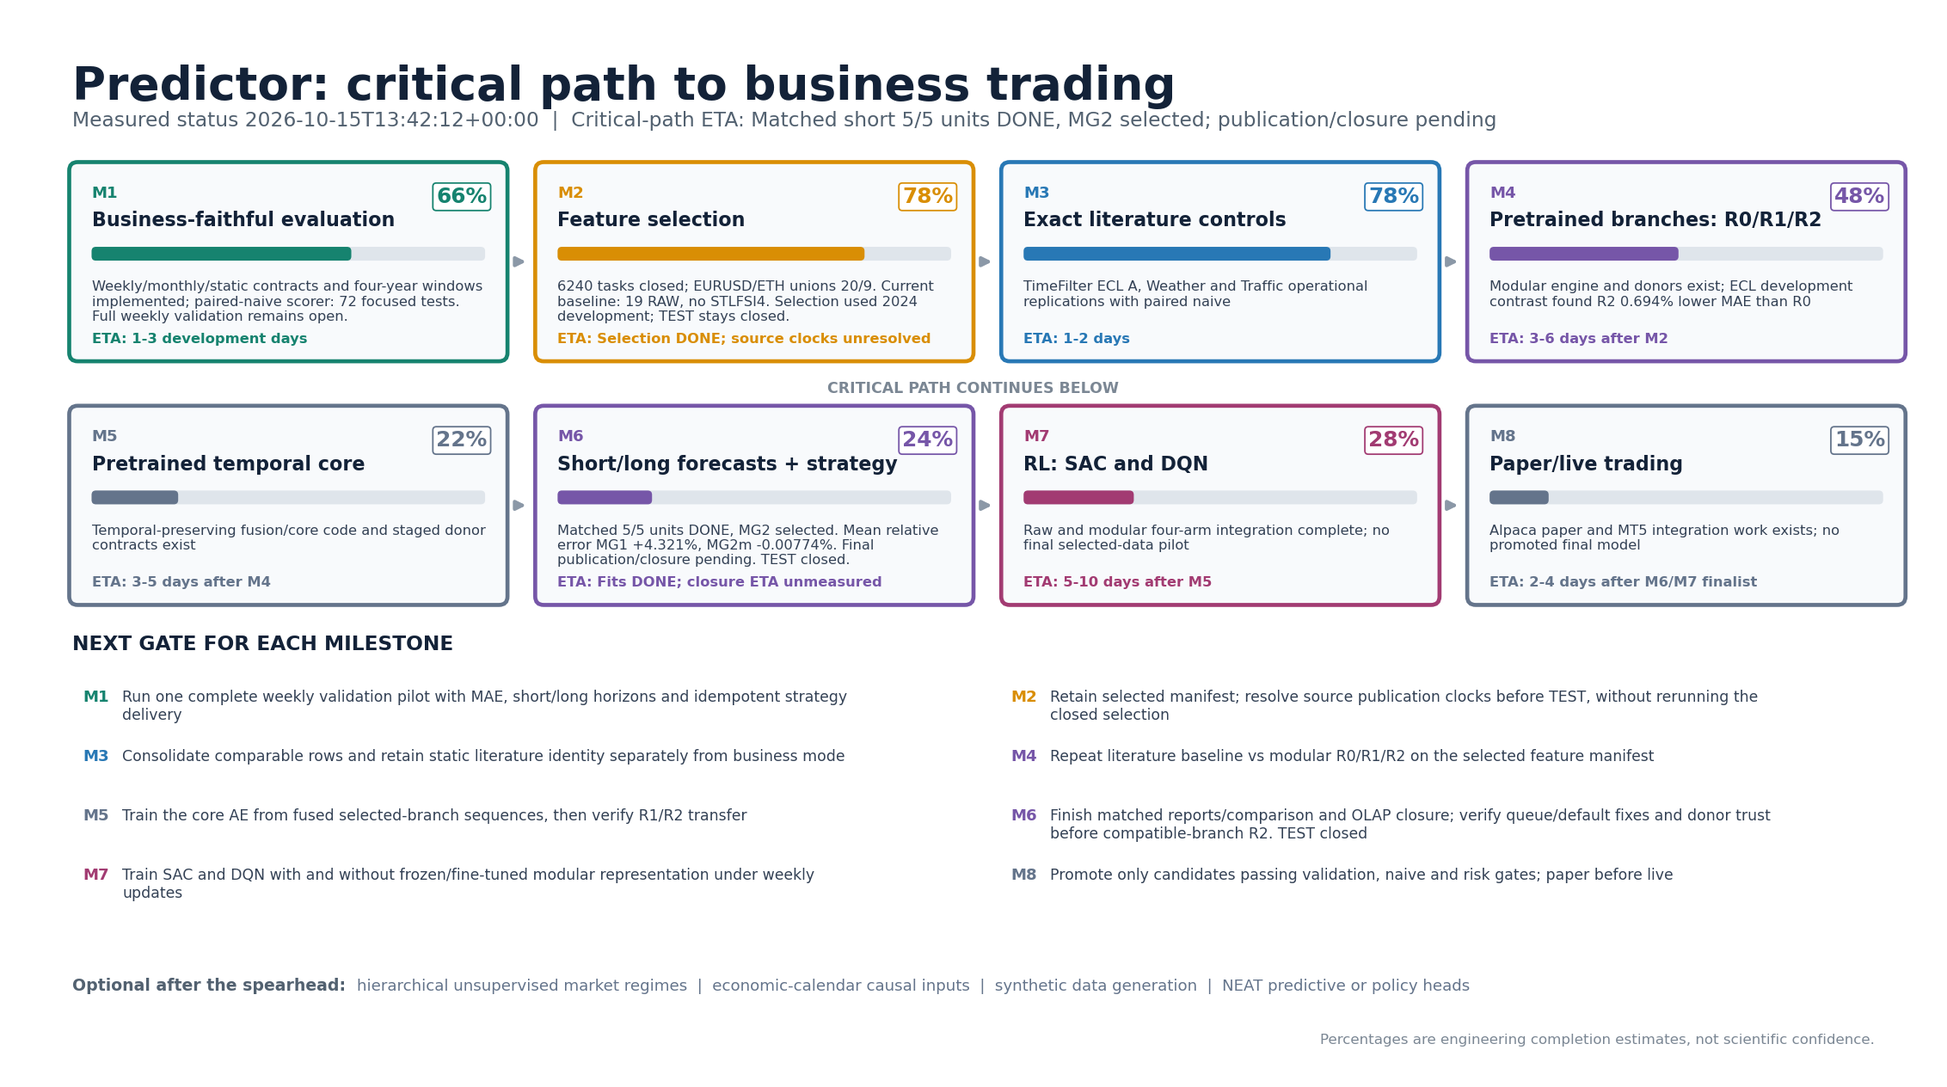
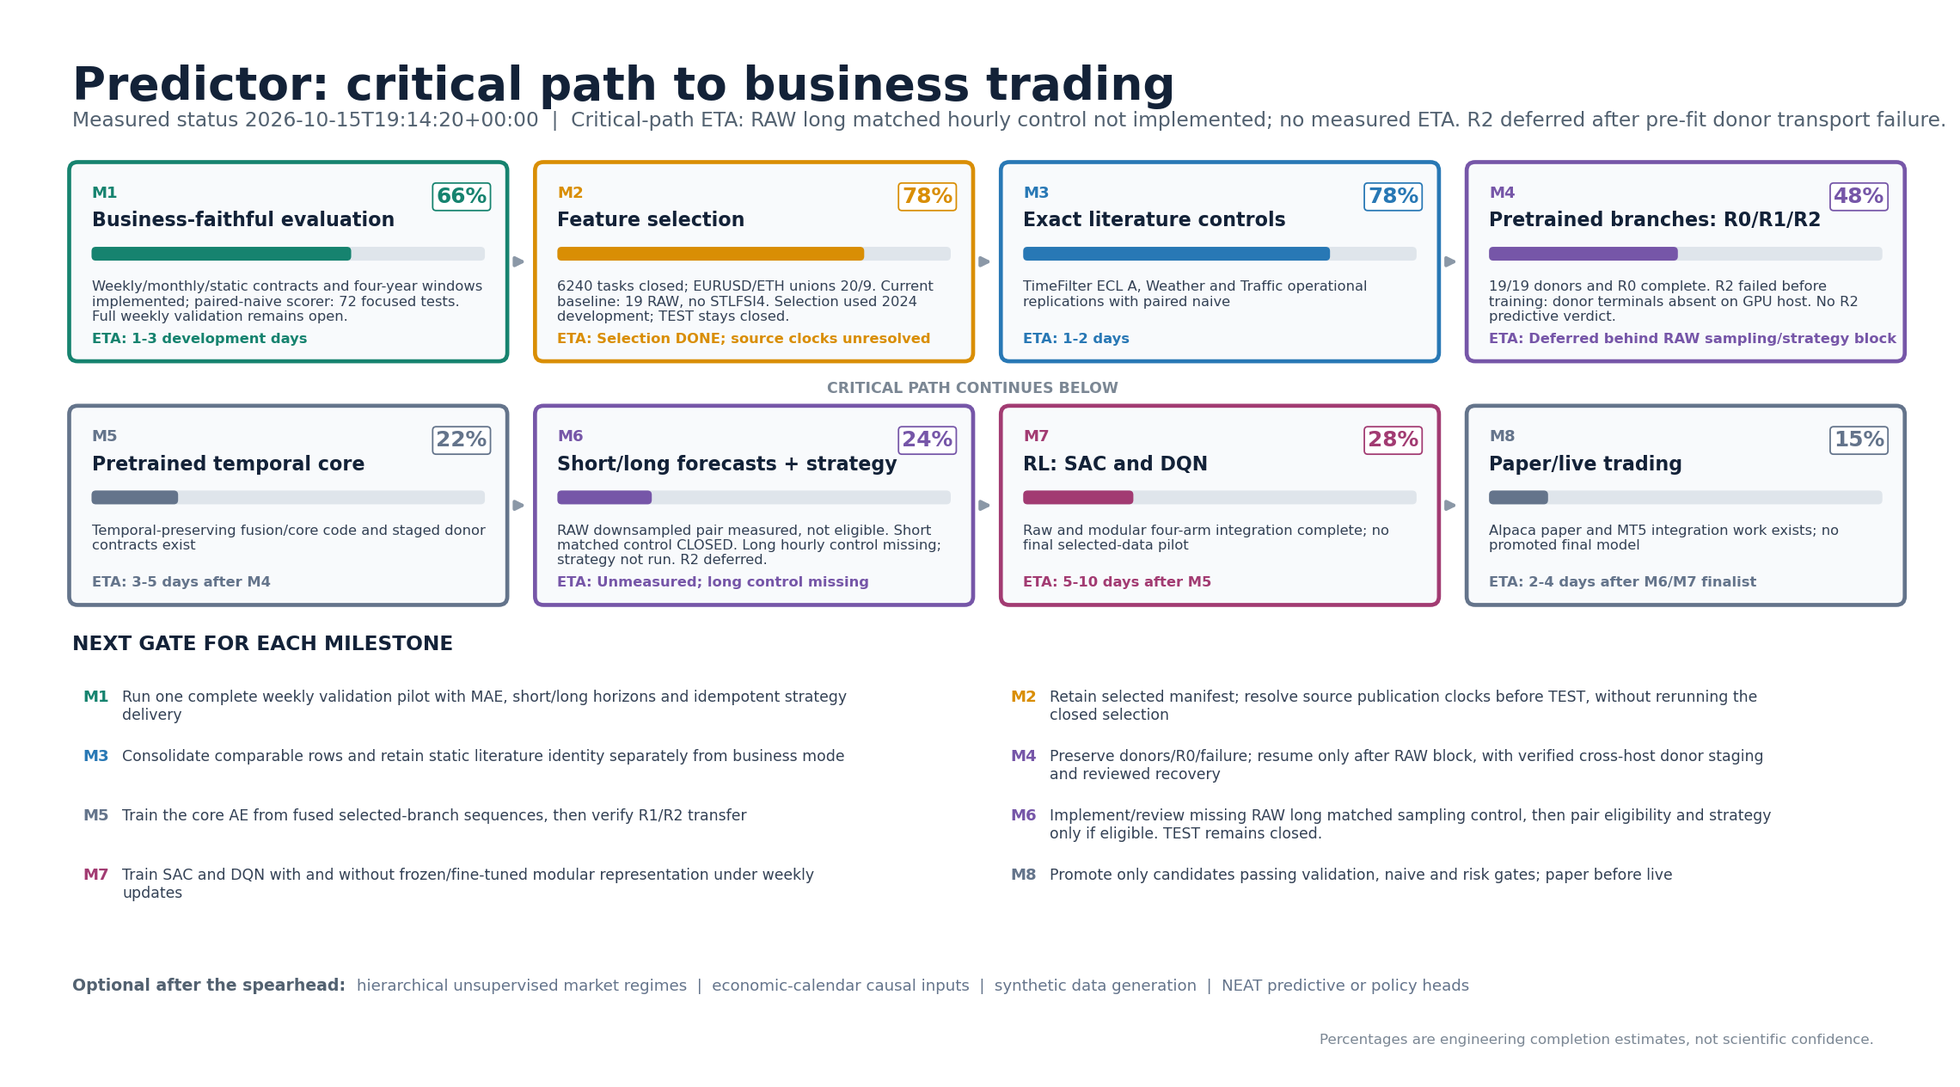
Restore RAW sampling priority and audit R2 prefit transport failure

diff --git a/docs/i6n/direct_multi_output_static/matched_short/MUSASHI_R2_AUDIT_20261015.md b/docs/i6n/direct_multi_output_static/matched_short/MUSASHI_R2_AUDIT_20261015.md
@@ -1,0 +1,108 @@
+# Musashi: R0/R2 launch audit and dispatch correction
+
+Campaign `i6dmo-9d3c198c77b1`, live root ending `-b`, immutable runtime
+`c34b1e48`. Published integration `813ef019` was checked against origin.
+The alternate root without `-b` has no DEPLOY.json and is retained, not deleted.
+No fit, donor, objective, loss, scientific seal or model weight was edited.
+
+## Actual state, 2026-10-15 19:08 UTC
+
+Superseding observation at 19:14 UTC: all 19 donors, R0.fit/R0.report and
+the diagnostic probe completed. R2.fit FAILED with R2_DONOR_TERMINAL_DIGEST
+before training (training=null in its receipt); R2.report is blocked. All 19
+referenced terminals match their hashes on the coordinator; zero of 19 exist
+at the referenced paths on the preferred worker. SshSystemdExecutor.start
+copies the attempt folder but not the external donor files. Thus the import
+guard rejected missing transport input correctly. This is not a measured
+negative R2 predictor. The comparison cannot establish an R0/R2 winner.
+
+Owner correction following this finding: R2 is deferred behind the unfinished
+RAW short/long sampling/strategy block. Preserve donors, R0 and failed attempt.
+Do not hot-retry, bypass verification or repeat pretraining. The active order
+is [RAW_PRIORITY_20261015.md](../RAW_PRIORITY_20261015.md), executed by Musashi.
+The following 19:08 snapshot is historical, not a current RUNNING claim.
+
+The finite plan has 25 units: 19 per-feature pretrainings, two predictor fits,
+two reports, one diagnostic probe and one comparison. All 19 pretrainings
+completed; R0 was RUNNING on the required preferred class, the probe was
+RUNNING, and R2 awaited the same class. No TEST unit is enumerable. Seed
+6102026 and the ruled-contract file digest match the effective configuration.
+The two predictor fits are pinned to rtx5090; other GPUs may train independent
+donors but cannot substitute for that controlled predictor-fit class.
+
+The previously reported four-minute ETA described model-training seconds,
+not end-to-end completion. At 19:02 UTC only 8/19 donors had completed after
+roughly 20 minutes: workers waited 120 s after short units, tick waited 300 s
+and publication 600 s. Typical recorded donor fit time was 5-12 s, with
+additional launch/supervision overhead. Do not omit this scheduling cost.
+
+## Operational correction actually applied
+
+Campaign-scoped timer drop-ins now specify GPU worker idle interval 5 s,
+coordinator worker 10 s, tick 10 s and publisher 60 s, with 1 s accuracy.
+Boot activation is retained at 30 s. A systemd user daemon-reload applied the
+settings; no running service/child was stopped, restarted or manually launched.
+The runtime pin, sealed deployment JSON, per-job caps/reserves and sole-heavy
+GPU slot on the preferred host did not change. The auxiliary GPU was not
+enabled. Existing locks, claims, admission and same-GPU-class rules still apply.
+
+After the correction, preferred and secondary simultaneously executed
+different donor units; progress advanced from 8 to 19 completed donors. R0
+then started automatically. Effective timer properties were read back. This
+is an operational cadence amendment, not a new scientific treatment or a
+claim that every GPU must be busy during CPU-only dependencies.
+
+## Scientific qualifications and residuals
+
+1. **Pretraining early stopping differs from the owner's global preference.**
+   The sealed registered O1 objective stops on purged INNER reconstruction
+   loss only, not the owner's requested mean of end-of-epoch FIT and INNER.
+   Predictor fine-tuning uses the declared mean in both R0 and R2. Keep the
+   current predeclared campaign unchanged and report this deviation; do not
+   describe it as an implementation of mean-based stopping at every level.
+   The result measures this specific pretraining-and-selection pipeline.
+   Implement the owner's mean monitor as a versioned future objective, not a
+   silent change to O1 1.0.0 or a mid-campaign checkpoint-selection rule.
+2. **INNER is consulted in two stages, not numerically weighted twice.**
+   R2 pretraining selection uses unlabeled input windows, and fine-tuning
+   subsequently uses the inner predictive loss. This does not by itself
+   demonstrate target leakage or invalidate a declared development comparison.
+   Nor does it establish an independent holdout. Feature selection already
+   used DEVELOPMENT 2024; TEST remains closed under the existing source gates.
+3. **Do not claim denoising from reconstruction.** O1 reconstructs the input
+   through a small branch and decoder; its representation can encode identity.
+   Reconstruction is diagnostic. The downstream per-horizon R0/R2 errors on
+   identical common masks and their own naives determine predictive benefit.
+4. **Automatic donor custody is not live warehouse authentication.** The R1
+   verifier checks the custody-protected outbox readback record and both mirrors.
+   Its live warehouse re-query is optional, as R1_DONOR_TRUST.md explicitly says.
+   Satoshi's summary must distinguish that from mandatory live readback on
+   every adoption. The two-host rewrite limit remains, without signature claims.
+   This campaign has no external prior roots and accepts its own authenticated
+   pretraining terminals. Do not infer cryptographic authenticity from hashes.
+5. **Pretraining peak is not measured.** run_pretrain explicitly writes
+   cgroup_peak_bytes=None. The conservative provisional cap is retained; do
+   not lower it from a different engineering run's 1.7-GB observation. Add
+   whole-scope peak capture and publication in the next release, including
+   failure paths. A sampled or TF allocator peak is not the full cgroup peak.
+6. **Keep ETA scopes separate.** Remaining fit seconds omit launch, idle and
+   host serialization. In particular, completed pretraining rows with
+   score_seconds=0 cannot measure the cost of a future probe/predictor report.
+   Report UNMEASURED rather than zero for an unmeasured phase.
+
+The old 2.18-declared/2.21-observed baseline remains qualified, not resealed.
+The current sealed runtime is TF 2.21.0 / Keras 3.13.2. The undeployed earlier
+root and original producer record are evidence; neither requires deletion to
+continue. No restart or credential action is established as necessary here.
+
+## Bounded independent CPU checks
+
+At published source 813ef019, the donor-trust suite plus the ruled-objective,
+strict-decision, R0-versus-R2 identity and atomic-import rollback checks passed:
+33 passed, two protobuf deprecation warnings, 123.48 s, under a 2-GiB/180-s
+governed cap with GPUs hidden. These checks are not a rerun of all 808 tests
+or a new scientific fit. Exact command:
+
+```bash
+crispdm-run -m 2G -t 180s -n r2-audit-contract-trust -- env CUDA_VISIBLE_DEVICES= PYTHONPATH=. python -m pytest -q tests/i6dmo/test_r1_donor_trust.py tests/i6dmo/test_r2_design.py::test_the_committed_ruled_contract_carries_the_lead_ruling_and_is_executable tests/i6dmo/test_r2_design.py::test_decision_integrity_is_strict_by_default tests/i6dmo/test_r2_design.py::test_two_plain_r0_fits_are_never_r0_vs_r2_even_for_engineering tests/i6dmo/test_r2_design.py::test_import_rolls_back_every_branch_when_setting_weights_fails
+```

diff --git a/docs/i6n/direct_multi_output_static/RAW_PRIORITY_20261015.md b/docs/i6n/direct_multi_output_static/RAW_PRIORITY_20261015.md
@@ -1,0 +1,80 @@
+# RAW direct multi-output: current execution priority
+
+Owner correction, 2026-10-15. Executor: Musashi, not Satoshi. This order
+supersedes the R2-before-long sequence in NEXT_CONTRASTS_PLAN_20261015.md.
+It does not rewrite scientific identities or launch a fit by itself.
+
+## 1. Measured state and missing evidence
+
+| Work | Actual evidence | Disposition |
+|---|---|---|
+| RAW exact-DS2 short | Six heads worse than their own naive | Complete, negative |
+| RAW market-time MG2/MG12 pair | Both families measured; no eligible long head | Complete, PAIR_NOT_ELIGIBLE; strategy correctly not run |
+| Matched RAW short MG1/MG2m | Common FIT/INNER/DEVELOPMENT, MG2_SELECTED | Complete; MG2m beats its naive only at 4/6/12 h |
+| Matched RAW long downsampled/hourly | No matched hourly long arm retained | Not complete; immediate design/implementation gap |
+| Complete eligible RAW pair in strategy | No eligible pair | Not executed, not evidence of trading failure |
+| Branch R2 | 19/19 donors, R0 and diagnostic probe complete; R2 import failed before fitting | Deferred; not a prerequisite for RAW |
+
+The historical MG2/MG12 receipts declared TF 2.18 but recorded TF 2.21.
+Retain them with their qualification; they are not a runtime-matched control
+for a new experiment. A new matched question is not a seed repeat of an old
+fit. Reuse only when every required identity and population agrees.
+
+## 2. Finite progression
+
+1. Retain completed downsampled short/long and matched short evidence. Do not
+   repeat these fits merely to populate a GPU.
+2. Define, implement and review ONLY the missing RAW long hourly-versus-
+   downsampled control. Both arms must have the same physical context,
+   horizons, common FIT/INNER/DEVELOPMENT masks, FIT-only scaler, optimizer,
+   runtime, seed and stopping rule. Their readout parameter-count difference
+   must be disclosed, not attributed solely to sampling. Preserve the current
+   long-family physical horizons 18/24/36/48/60/72 h; do not resurrect the
+   superseded 120-hour heads silently.
+3. Execute the two sealed RAW arms and report each full DEVELOPMENT-2024
+   horizon against naive for that horizon on exactly its own scored rows.
+   Negative results still close the experiment. Never select missing heads,
+   fill them with price(t), average away ineligibility or read TEST to tune.
+4. Evaluate the complete short/long pair against the frozen eligibility
+   policy. If eligible, run the prediction-based strategy on DEVELOPMENT,
+   recording model/config/feature hashes, initial capital 10000, trade count,
+   costs, profit, drawdown and Sharpe. If not, close PAIR_NOT_ELIGIBLE with
+   explicit per-head reasons; do not force a misleading trading run.
+5. TEST remains closed until the full procedure and source-availability gates
+   pass. TEST is not a hyperparameter-selection split. Do not substitute a
+   DEVELOPMENT backtest for a confirmatory TEST result.
+6. Only after the RAW block closes: consider separately declared capacity,
+   cadence and branch-pretraining contrasts. R2/core AE/DOIN/RL/NEAT cannot
+   become implicit dependencies of the missing RAW result.
+
+## 3. Non-negotiable experiment and automation rules
+
+Use 19 retained RAW features, no target denoising, no input reconstruction,
+no smoothing/interpolation. Include current t in each window; targets are
+exact elapsed t+h and issuance remains hourly. Open-market input sampling
+is not a relabelled elapsed-time target. Retain actual offsets and closure
+flags, per-head business masks, label maturity, forced-flat/reopening/entry
+rules and the same masks for model and naive. The initial cadence is NONE;
+later retraining comparisons are separate experiments, not hot changes.
+
+Relative error is (MAE_h - naive_h)/naive_h; negative is better. Stopping uses
+the declared mean of end-of-epoch FIT/INNER at identical weights, patience 10,
+min_delta 1e-8, best restoration. One seed, no unnecessary repetitions.
+
+Reuse the existing finite campaign queue, admission, workers, terminal
+verification, outbox, warehouse readback, physical mirrors and automatic
+close. Missing long-family factory support must be implemented and tested;
+never monkeypatch short-family globals or disguise a long run as a short arm.
+Status must name this gap until it exists; no RUNNING label or fabricated ETA.
+Prefer the 5090; one heavy job on its host, no concurrent 5070 Ti. Independent
+work may use the 4090 after fresh admission. Reserve coordinator memory.
+
+Do not erase or retry the failed R2 import in place. Its code was actually
+executed and produced a typed failure. Keep the first failure and all donor
+bytes; when R2 is resumed later, repair and test cross-host donor staging,
+verify terminal AND weight hashes before GPU launch, then use an explicitly
+reviewed recovery/adoption path without changing a closed receipt.
+
+All metrics, exclusions, costs and dispositions go through the existing OLAP
+outbox/readback. Code/configs/summaries/hashes belong in Git; large artifacts
+and databases remain on physical storage with authenticated mirrors.

diff --git a/docs/tres_temas_entrevista/program_v3/CURRENT_EXECUTION.md b/docs/tres_temas_entrevista/program_v3/CURRENT_EXECUTION.md
@@ -1,5 +1,39 @@
 # Estado de ejecución vigente
 
+## Actual: prioridad RAW; R2 aplazado, no ejecutandose
+
+Rectificacion del propietario, 2026-10-15: Musashi ejecuta sin nuevas tareas
+para Satoshi. El control corto RAW MG1/MG2m esta cerrado; falta el control
+largo horario emparejado y la evaluacion de una pareja elegible en estrategia.
+Los baselines MG2/MG12 ya medidos no habilitaron trading. No confundir esas
+mediciones con la comparacion RAW completa ni con un resultado de estrategia.
+[Orden vigente](../../i6n/direct_multi_output_static/RAW_PRIORITY_20261015.md).
+
+Lectura real 19:14 UTC: 19/19 donantes, R0 y sonda terminados. R2 fallo antes
+de entrenar con R2_DONOR_TERMINAL_DIGEST: ningun terminal donante estaba en
+el worker, aunque los 19 hashes locales verifican. No hay resultado predictivo
+R2 ni comparacion valida. Se conservan todos los bytes y el fallo; no se
+relanza R2 ni se repite pretraining en este camino critico. TEST cerrado.
+
+## Registro anterior: lanzamiento R0/R2
+
+Auditoria Musashi 2026-10-15 19:08 UTC: campana `i6dmo-9d3c198c77b1`,
+runtime `c34b1e48`, integracion publicada `813ef019`. Los 19 preentrenamientos
+terminaron; R0 y la sonda diagnostica arrancaron automaticamente, y R2 espera
+la misma clase 5090. La 4090 prepara donantes, no sustituye la clase fijada
+para comparar predictores. No hay error predictivo anual nuevo en este snapshot
+ni acceso a TEST.
+
+Se corrigio la cadencia: workers GPU 5 s, coordinador/tick 10 s, publicacion
+60 s. No se modificaron modelos, perdida, limites ni pin activo; ningun trabajo
+fue reiniciado. El criterio sellado de pretraining es INNER-only, no la media
+FIT/INNER pedida: se conserva y declara sin cambiar esta campana a mitad ni
+repetir donantes.
+[Auditoria](../../i6n/direct_multi_output_static/matched_short/MUSASHI_R2_AUDIT_20261015.md)
+y [rectificacion de prioridad](../../i6n/direct_multi_output_static/RAW_PRIORITY_20261015.md).
+
+## Antecedentes: contraste de muestreo cerrado
+
 Auditoria posterior de Musashi, 2026-10-15: campana `i6dmo-6004b711281c`,
 runtime `796ec8f4`. Los dos ajustes nuevos MG1/MG2m terminaron en 151.21 s y
 54.58 s, con identico soporte/scaler comun y hashes de ocho ficheros de codigo
@@ -24,7 +58,7 @@ la entrega completa y los espejos. No hay un fit vivo de esta campana.
 
 Calificacion de runtime (2026-10-15): los resultados cerrados MG2/MG12 son RUNTIME_SEAL_NONCONFORMANT_OBSERVED_TF_2_21 (declarado TF 2.18.0/Keras 3.9.0, los recibos registran TF 2.21.0); no certifican el runtime declarado ni sirven como donante/control con runtime emparejado. Cifras sin cambios. Registro: [RUNTIME_QUALIFICATION_MG2_MG12.json](../../i6n/direct_multi_output_static/RUNTIME_QUALIFICATION_MG2_MG12.json).
 
-Siguiente secuencia aceptada por el propietario: control corto MG1/MG2 con
+Secuencia anterior, sustituida por la rectificacion RAW de arriba: control corto MG1/MG2 con
 poblacion comun -> ramas preentrenadas R2 frente a R0 -> transferencia larga
 -> contraste trimestral frente a estatico. Estado del sucesor: PREPARING,
 no RUNNING. [Plan](../../i6n/direct_multi_output_static/NEXT_CONTRASTS_PLAN_20261015.md)

diff --git a/docs/i6n/direct_multi_output_static/RESULTS_INDEX.md b/docs/i6n/direct_multi_output_static/RESULTS_INDEX.md
@@ -7,7 +7,9 @@
 | MG2 short fit and recovered report | 6/12 h improve MAE 0.049615%/0.093170%; 2/3/4/5 h remain above naive; 54 reports and 2006 metrics readback verified | [Recovery return](RETURN_REPORT_RECOVERY_20261015.md) |
 | MG12 long | Six heads above naive by 24.08-41.08%; 37 epochs, best 27, 124.55 s | [Recovery return](RETURN_REPORT_RECOVERY_20261015.md#mg12-long-development-2024) |
 | Pair and strategy | CLOSED / PAIR_NOT_ELIGIBLE; no trading or TEST; 110 reports / 3952 metrics delivered, 58 files per mirror | [Closure](RETURN_REPORT_RECOVERY_20261015.md#pair-disposition-publication-and-remaining-engineering) |
-| Matched short MG1/MG2m | Five units complete; MG2_SELECTED. Mean relative MAE +4.321015% / -0.007738%; MG2m beats naive at 4/6/12 h; final publication/closure pending | [Audit and per-horizon results](matched_short/MUSASHI_AUDIT_20261015.md) |
+| Matched short MG1/MG2m | CLOSED, MG2_SELECTED. Mean relative MAE +4.321015% / -0.007738%; MG2m beats naive at 4/6/12 h | [Audit and per-horizon results](matched_short/MUSASHI_AUDIT_20261015.md) |
+| Compatible branch R0/R2 | 19/19 donors, R0/probe complete; R2 FAILED before training: donor terminals absent on GPU host. No R2 prediction comparison; deferred behind RAW | [R2 audit](matched_short/MUSASHI_R2_AUDIT_20261015.md) |
+| RAW long matched sampling/strategy | Hourly long control missing; no eligible full pair or trading result | [Active RAW priority](RAW_PRIORITY_20261015.md) |
 
 All reported 2024 results are development. TEST remains closed. Each stage
 keeps its own support, model identity and cost; these are not controlled

diff --git a/docs/tres_temas_entrevista/MASTER_WORK_PLAN_INFORMATION_TO_KNOWLEDGE_PIPELINE_v3.md b/docs/tres_temas_entrevista/MASTER_WORK_PLAN_INFORMATION_TO_KNOWLEDGE_PIPELINE_v3.md
@@ -7,6 +7,21 @@ gobiernan la ejecución.
 
 ## 1. Autoridad vigente
 
+Rectificacion del propietario, 2026-10-15, posterior al lanzamiento R2:
+Musashi asume la ejecucion; no se delega trabajo nuevo a Satoshi. La prioridad
+es terminar la evaluacion RAW direct multi-output de las dos familias, primero
+submuestreadas y despues sus controles horarios, con naive propio por horizonte
+y simulacion de la estrategia solo con pareja elegible. El preentrenamiento
+de ramas R2 no es requisito para completar ese bloque y queda aplazado.
+Esta rectificacion sustituye el orden R2-antes-de-transferencia-larga citado
+mas abajo; esas menciones conservan procedencia historica, no autorizacion.
+Estado: corto MG1/MG2m comparado; larga MG12 medida, sin control horario largo
+emparejado; ninguna pareja habilitada para estrategia. Los 19 donantes y R0
+del ensayo R2 se conservan. R2 fallo antes de entrenar al no encontrar los
+donantes en el worker; no se reintenta en el camino critico RAW.
+Detalle ejecutable y criterios de cierre:
+[RAW_PRIORITY_20261015.md](../i6n/direct_multi_output_static/RAW_PRIORITY_20261015.md).
+
 Enmienda del propietario 2026-10-14, concretada por Musashi 2026-10-15: el despacho es
 [I6-DMO, direct multi-output estatico](../i6n/direct_multi_output_static/PLAN.md).
 El corto exacto DS2 cerro: seis cabezas no elegibles en desarrollo 2024. Su

diff --git a/docs/i6n/direct_multi_output_static/PLAN.md b/docs/i6n/direct_multi_output_static/PLAN.md
@@ -3,9 +3,12 @@
 Owner amendment: 2026-10-14; next-design decision: 2026-10-15.
 Status: exact-DS2 short CLOSED, six heads NOT_ELIGIBLE; MG2/MG12 successor
 also CLOSED / PAIR_NOT_ELIGIBLE. See [measured closure](RETURN_REPORT_RECOVERY_20261015.md).
-The next accepted work is [NEXT_CONTRASTS_PLAN_20261015.md](NEXT_CONTRASTS_PLAN_20261015.md):
-matched short sampling, compatible-branch R2, long transfer and then quarterly
-cadence. No successor fit is launched by this documentation update.
+The owner's latest correction supersedes the previous R2-before-long ordering:
+[RAW_PRIORITY_20261015.md](RAW_PRIORITY_20261015.md) governs execution by Musashi.
+Finish RAW short/long downsampled and hourly controls and eligible strategy
+evaluation BEFORE returning to branch pretraining/R2. The matched short control
+is complete; the matched long hourly control is not. Preserve all measured
+results and the 19 existing donors. No fit is launched by this documentation.
 The retained market baseline contract is [MARKET_TIME_PAIR_PLAN.md](MARKET_TIME_PAIR_PLAN.md).
 Sections below retain the measured exact-DS2 recipe and shared business rules;
 their elapsed-time input grids do not authorize another DS2 fit or an empty

diff --git a/docs/i6n/direct_multi_output_static/NEXT_CONTRASTS_PLAN_20261015.md b/docs/i6n/direct_multi_output_static/NEXT_CONTRASTS_PLAN_20261015.md
@@ -1,4 +1,10 @@
-# I6-DMO: controlled short sampling, then R2 and long transfer
+# I6-DMO: controlled sampling; RAW priority supersedes R2-first dispatch
+
+OWNER CORRECTION, 2026-10-15: the active order is
+[RAW_PRIORITY_20261015.md](RAW_PRIORITY_20261015.md). Short/long RAW prediction
+and eligible strategy evaluation precede R2. The earlier ordered questions
+below explain how R2 was dispatched; they no longer authorize R2 ahead of the
+unfinished RAW long control. Musashi executes; no new Satoshi assignment.
 
 Owner accepted this sequence on 2026-10-15. Status: APPROVED_FOR_DEFINITION_AND_IMPLEMENTATION.
 The MG2/MG12 campaign is CLOSED / PAIR_NOT_ELIGIBLE and must not be reopened.
